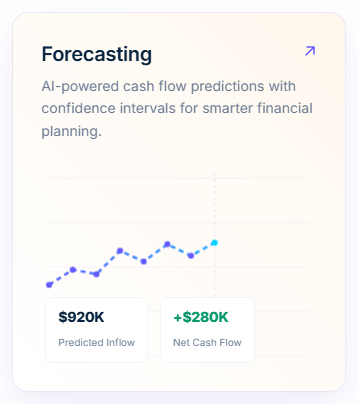
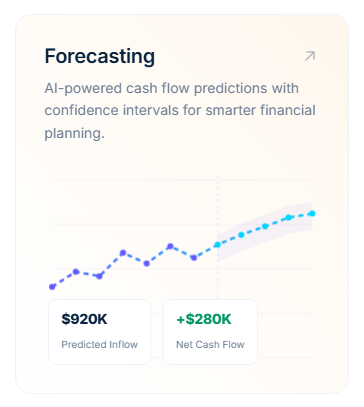
Rebuild the project README and recapture live motion

diff --git a/README.md b/README.md
@@ -1,96 +1,186 @@
 # Frontend UX Motion Skills
 
-A collection of 28 agent skills for frontend design, UX, and web animation. Each skill includes implementation guidance and a standalone HTML and JavaScript example that runs without dependencies.
+**28 agent skills for frontend design, UX, and web animation.** Build responsive product websites with accessible CSS, SVG, Canvas, and JavaScript motion. Start with a live production example, then open the standalone HTML and JavaScript to see how the interaction works.
+
+[Quick start](#quick-start) · [Choose a skill](#choose-a-skill) · [Live website examples](#live-website-examples) · [Skill directory](#skill-directory) · [License](#license)
+
+## Quick start
+
+**Open a browser example locally**
+
+```bash
+git clone https://github.com/AbdullahNaveed/frontend-ux-motion-skills.git
+cd frontend-ux-motion-skills
+```
+
+Open `skills/animate-card-tilt/examples/example.html` in your browser. The demo needs no package install or build step. Read the [example JavaScript](skills/animate-card-tilt/examples/example.js) alongside the [skill instructions](skills/animate-card-tilt/SKILL.md).
+
+**Use a skill with a coding agent**
+
+Point your agent to the relevant `SKILL.md` in the checkout, or use the [Skills CLI](https://github.com/vercel-labs/skills) to install it into a supported agent such as Codex, Claude Code, or Cursor.
+
+```bash
+npx skills add AbdullahNaveed/frontend-ux-motion-skills --skill animate-card-tilt
+```
+
+Example prompt to adapt to your project.
+
+> Use the card tilt skill on our product grid. Keep existing card links, use a stationary pointer target, and verify keyboard navigation, touch, and reduced motion.
+
+## Choose a skill
+
+| Goal | Start here |
+| --- | --- |
+| Plan a product landing page from the first viewport to the final CTA | [Product website design](skills/design-product-websites/SKILL.md) |
+| Build a dark product-card grid with pointer depth and a phone preview | [Card tilt](skills/animate-card-tilt/SKILL.md), [spotlights](skills/animate-pointer-spotlights/SKILL.md), [preview lift](skills/animate-product-previews/SKILL.md) |
+| Pin a product preview while users scroll through its features | [Sticky scroll stories](skills/animate-scroll-stories/SKILL.md) |
+| Build a moving integrations carousel or logo marquee | [Seamless marquees](skills/animate-seamless-marquees/SKILL.md) |
+| Build an interactive stats canvas with selectable arrangements | [Visualization modes](skills/animate-visualization-modes/SKILL.md), [reactive particles](skills/animate-canvas-particles/SKILL.md) |
+| Check a motion-heavy landing page before release | [Frontend UX audit](skills/audit-frontend-experiences/SKILL.md), [motion lifecycle](skills/animate-frontend-interfaces/SKILL.md) |
 
 ## Live website examples
 
-These captures show the interactions on the live sites. The [live interaction guide](examples/live-captures/README.md) maps each effect to its example scripts.
+The following GIFs and PNGs were captured from [Klynd](https://klynd.trade/) and [CashCycle](https://cashcycle.ai/). The [live interaction guide](examples/live-captures/README.md) links each pattern to its reusable implementation.
 
-| [Klynd](https://klynd.trade/) | [CashCycle](https://cashcycle.ai/) |
-| --- | --- |
-| [![Screenshot of the Klynd product cards](examples/live-captures/klynd-product-cards.png)](examples/live-captures/klynd-product-cards.png) | [![Screenshot of the CashCycle feature grid](examples/live-captures/cashcycle-feature-cards.png)](examples/live-captures/cashcycle-feature-cards.png) |
+### Klynd landing pages and carousels
 
-<details>
-<summary>Klynd card animations</summary>
-
-| Journal | Prop | Academy |
-| --- | --- | --- |
-| ![Journal card tilt](examples/live-captures/klynd-journal-card.gif) | ![Prop card tilt](examples/live-captures/klynd-prop-card.gif) | ![Academy card tilt](examples/live-captures/klynd-academy-card.gif) |
-
-</details>
-
-<details>
-<summary>CashCycle card animations</summary>
-
-| Invoicing | Collections | Cash Application |
-| --- | --- | --- |
-| ![Invoicing particles](examples/live-captures/cashcycle-invoicing-card.gif) | ![Collections sequence](examples/live-captures/cashcycle-collections-card.gif) | ![Cash Application match results](examples/live-captures/cashcycle-cash-application-card.gif) |
-
-| Customer Portal | Forecasting | Analytics |
-| --- | --- | --- |
-| ![Customer Portal particle field](examples/live-captures/cashcycle-customer-portal-card.gif) | ![Forecasting chart](examples/live-captures/cashcycle-forecasting-card.gif) | ![Analytics bars](examples/live-captures/cashcycle-analytics-card.gif) |
-
-</details>
-
-### Klynd app pages
+[![Klynd homepage with its navigation and product suite hero](examples/live-captures/klynd-home.png)](examples/live-captures/klynd-home.png)
 
 | [Journal](https://klynd.trade/journal) | [Prop](https://klynd.trade/prop) | [Academy](https://klynd.trade/academy) |
 | --- | --- | --- |
-| ![Journal pinned walkthrough](examples/live-captures/klynd-journal-story.gif) | ![Prop dashboard landing page](examples/live-captures/klynd-prop-landing.gif) | ![Academy pinned walkthrough](examples/live-captures/klynd-academy-story.gif) |
-| [Moving integrations carousel](examples/live-captures/klynd-journal-marquee.gif) | [Landing page screenshot](examples/live-captures/klynd-prop-landing.png) | [Screenshot gallery hover animation](examples/live-captures/klynd-academy-gallery.gif) |
+| [![Journal landing page with navigation, hero, and market ticker](examples/live-captures/klynd-journal-landing.png)](examples/live-captures/klynd-journal-landing.png) | [![Prop landing page with navigation, hero, and prop-firm ticker](examples/live-captures/klynd-prop-landing.png)](examples/live-captures/klynd-prop-landing.png) | [![Academy landing page with navigation and hero](examples/live-captures/klynd-academy-landing.png)](examples/live-captures/klynd-academy-landing.png) |
+| [Market ticker in motion](examples/live-captures/klynd-journal-landing.gif) | [Prop-firm ticker in motion](examples/live-captures/klynd-prop-landing.gif) | [Pinned lesson walkthrough](examples/live-captures/klynd-academy-story.gif) |
 
-### More from CashCycle
+<details>
+<summary>Watch the integrations carousel and pinned walkthroughs</summary>
+
+**Journal integrations carousel**
+
+![Journal's two integration rails moving in opposite directions](examples/live-captures/klynd-journal-integrations.gif)
+
+[Integrations screenshot](examples/live-captures/klynd-journal-integrations.png)
+
+| Journal walkthrough | Academy walkthrough |
+| --- | --- |
+| ![Journal phone stays pinned as the product screens change](examples/live-captures/klynd-journal-story.gif) | ![Academy phone stays pinned as the lesson steps advance](examples/live-captures/klynd-academy-story.gif) |
+| [Screenshot](examples/live-captures/klynd-journal-story.png) | [Screenshot](examples/live-captures/klynd-academy-story.png) |
+
+</details>
+
+<details>
+<summary>Watch the three Klynd product cards</summary>
+
+[Full product grid](examples/live-captures/klynd-product-cards.png)
+
+| Journal | Prop | Academy |
+| --- | --- | --- |
+| ![Journal card hover](examples/live-captures/klynd-journal-card.gif) | ![Prop card hover](examples/live-captures/klynd-prop-card.gif) | ![Academy card hover](examples/live-captures/klynd-academy-card.gif) |
+
+</details>
+
+### CashCycle landing page and feature cards
+
+[![CashCycle homepage with navigation, hero dashboard, and integration logos](examples/live-captures/cashcycle-home.png)](examples/live-captures/cashcycle-home.png)
+
+[Animated homepage hero and logo rail](examples/live-captures/cashcycle-home.gif) · [Full feature grid](examples/live-captures/cashcycle-feature-cards.png)
+
+<details>
+<summary>Watch all six CashCycle cards individually</summary>
+
+| Invoicing | Collections | Cash Application |
+| --- | --- | --- |
+| ![Pointer-reactive invoicing particles](examples/live-captures/cashcycle-invoicing-card.gif) | ![Collections follow-up sequence](examples/live-captures/cashcycle-collections-card.gif) | ![Cash application matching rows](examples/live-captures/cashcycle-cash-application-card.gif) |
+
+| Customer Portal | Forecasting | Analytics |
+| --- | --- | --- |
+| ![Pointer-reactive customer portal field](examples/live-captures/cashcycle-customer-portal-card.gif) | ![Interactive forecasting chart](examples/live-captures/cashcycle-forecasting-card.gif) | ![Interactive analytics bars](examples/live-captures/cashcycle-analytics-card.gif) |
+
+</details>
 
 #### Built for finance teams that move fast
 
-The four controls switch the canvas between **40+ currencies supported**, **3-layer AI matching**, **7+ languages supported**, and **Security**. The pointer also changes the artwork within each mode.
+Four controls switch the Canvas visualization between **40+ currencies**, **3-layer AI matching**, **7+ languages**, and **Security**. The pointer interacts with the artwork within each mode.
 
-![CashCycle’s four stat controls switch the animated canvas](examples/live-captures/cashcycle-stats.gif)
+![CashCycle stats controls switch the animated Canvas](examples/live-captures/cashcycle-stats.gif)
 
-[Full-resolution screenshot](examples/live-captures/cashcycle-stats.png) · [Reusable visualization mode example](skills/animate-visualization-modes/examples/example.js)
+[Stats screenshot](examples/live-captures/cashcycle-stats.png) · [Visualization mode script](skills/animate-visualization-modes/examples/example.js)
 
 | Stacked workflow cards | Integration diagram |
 | --- | --- |
-| ![Hovering changes which workflow card is emphasized](examples/live-captures/cashcycle-workflow.gif) | ![Signals travel along the integration diagram’s connectors](examples/live-captures/cashcycle-integrations.gif) |
+| ![Hover promotes a workflow card](examples/live-captures/cashcycle-workflow.gif) | ![Signals travel along the diagram's connectors](examples/live-captures/cashcycle-integrations.gif) |
 | [Screenshot](examples/live-captures/cashcycle-workflow.png) | [Screenshot](examples/live-captures/cashcycle-integrations.png) |
 
-## Use a skill
+## Skill directory
 
-Clone the repository and open a skill's `examples/example.html` in your browser. Its `examples/example.js` contains the interaction code. Point your coding agent to the skill's `SKILL.md` or copy the complete skill folder into your agent's skills directory.
+Each folder contains a `SKILL.md`, agent metadata, and a browser-ready HTML and JavaScript example. The [motion recipes](skills/animate-frontend-interfaces/references/motion-recipes.md) and [browser audit guide](skills/audit-frontend-experiences/references/browser-audit.md) provide additional implementation and verification details.
 
-For example, ask your agent to use `animate-card-tilt` to add a small pointer tilt while preserving existing links and touch behavior.
+### Product website design and UX
 
-| Skill | Run locally |
-| --- | --- |
-| [Pointer tilt](skills/animate-card-tilt/SKILL.md) | [Example](skills/animate-card-tilt/examples/example.html) |
-| [Pointer spotlight](skills/animate-pointer-spotlights/SKILL.md) | [Example](skills/animate-pointer-spotlights/examples/example.html) |
-| [Product preview lift](skills/animate-product-previews/SKILL.md) | [Example](skills/animate-product-previews/examples/example.html) |
-| [Reactive canvas particles](skills/animate-canvas-particles/SKILL.md) | [Example](skills/animate-canvas-particles/examples/example.html) |
-| [Reactive paths and nodes](skills/animate-reactive-paths/SKILL.md) | [Example](skills/animate-reactive-paths/examples/example.html) |
-| [Sticky scroll stories](skills/animate-scroll-stories/SKILL.md) | [Example](skills/animate-scroll-stories/examples/example.html) |
-| [Viewport reveals](skills/animate-viewport-reveals/SKILL.md) | [Example](skills/animate-viewport-reveals/examples/example.html) |
-| [Count-up metrics](skills/animate-count-up-metrics/SKILL.md) | [Example](skills/animate-count-up-metrics/examples/example.html) |
-| [Seamless marquees](skills/animate-seamless-marquees/SKILL.md) | [Example](skills/animate-seamless-marquees/examples/example.html) |
-| [SVG line drawing](skills/animate-svg-path-drawing/SKILL.md) | [Example](skills/animate-svg-path-drawing/examples/example.html) |
-| [Dashboard choreography](skills/animate-dashboard-sequences/SKILL.md) | [Example](skills/animate-dashboard-sequences/examples/example.html) |
-| [Ambient backgrounds](skills/animate-ambient-backgrounds/SKILL.md) | [Example](skills/animate-ambient-backgrounds/examples/example.html) |
-| [Hero media timelines](skills/animate-hero-media/SKILL.md) | [Example](skills/animate-hero-media/examples/example.html) |
-| [Disclosure and menu motion](skills/animate-disclosures-and-menus/SKILL.md) | [Example](skills/animate-disclosures-and-menus/examples/example.html) |
-| [Visualization mode changes](skills/animate-visualization-modes/SKILL.md) | [Example](skills/animate-visualization-modes/examples/example.html) |
-| [Feedback microinteractions](skills/animate-feedback-states/SKILL.md) | [Example](skills/animate-feedback-states/examples/example.html) |
-| [Reactive bar illustrations](skills/animate-reactive-bars/SKILL.md) | [Example](skills/animate-reactive-bars/examples/example.html) |
-| [Icon flips](skills/animate-icon-flips/SKILL.md) | [Example](skills/animate-icon-flips/examples/example.html) |
-| [Swipe galleries](skills/animate-swipe-galleries/SKILL.md) | [Example](skills/animate-swipe-galleries/examples/example.html) |
-| [Product website structure](skills/design-product-websites/SKILL.md) | [Example](skills/design-product-websites/examples/example.html) |
-| [Light and dark theme tokens](skills/build-theme-systems/SKILL.md) | [Example](skills/build-theme-systems/examples/example.html) |
-| [Basic frontend audit script](skills/audit-frontend-experiences/SKILL.md) | [Example](skills/audit-frontend-experiences/examples/example.html) |
-| [Motion preference and lifecycle](skills/animate-frontend-interfaces/SKILL.md) | [Example](skills/animate-frontend-interfaces/examples/example.html) |
-| [Workflow app landing pages](skills/design-workflow-app-landing/SKILL.md) | [Example](skills/design-workflow-app-landing/examples/example.html) |
-| [Learning app landing pages](skills/design-learning-app-landing/SKILL.md) | [Example](skills/design-learning-app-landing/examples/example.html) |
-| [Monitoring app landing pages](skills/design-monitoring-app-landing/SKILL.md) | [Example](skills/design-monitoring-app-landing/examples/example.html) |
-| [Stacked workflow cards](skills/animate-stacked-workflow-cards/SKILL.md) | [Example](skills/animate-stacked-workflow-cards/examples/example.html) |
-| [Animated integration connectors](skills/animate-integration-connectors/SKILL.md) | [Example](skills/animate-integration-connectors/examples/example.html) |
+| Skill | When to use it | Example |
+| --- | --- | --- |
+| [Product website structure](skills/design-product-websites/SKILL.md) | Plan product messaging, proof, routes, and calls to action. | [HTML](skills/design-product-websites/examples/example.html) · [JS](skills/design-product-websites/examples/example.js) |
+| [Workflow app landing pages](skills/design-workflow-app-landing/SKILL.md) | Demonstrate a repeatable job with sequential product screens. | [HTML](skills/design-workflow-app-landing/examples/example.html) · [JS](skills/design-workflow-app-landing/examples/example.js) |
+| [Learning app landing pages](skills/design-learning-app-landing/SKILL.md) | Show curriculum progression and an accessible sample exercise. | [HTML](skills/design-learning-app-landing/examples/example.html) · [JS](skills/design-learning-app-landing/examples/example.js) |
+| [Monitoring app landing pages](skills/design-monitoring-app-landing/SKILL.md) | Explain dashboard states, thresholds, and the next action. | [HTML](skills/design-monitoring-app-landing/examples/example.html) · [JS](skills/design-monitoring-app-landing/examples/example.js) |
+| [Light and dark theme tokens](skills/build-theme-systems/SKILL.md) | Build responsive light and dark themes with semantic color tokens. | [HTML](skills/build-theme-systems/examples/example.html) · [JS](skills/build-theme-systems/examples/example.js) |
+| [Basic frontend audit script](skills/audit-frontend-experiences/SKILL.md) | Review keyboard access, touch, contrast, overflow, and motion. | [HTML](skills/audit-frontend-experiences/examples/example.html) · [JS](skills/audit-frontend-experiences/examples/example.js) |
+
+### Cards, navigation, and interaction
+
+| Skill | When to use it | Example |
+| --- | --- | --- |
+| [Pointer tilt](skills/animate-card-tilt/SKILL.md) | Tilt a visual layer from a stationary pointer target. | [HTML](skills/animate-card-tilt/examples/example.html) · [JS](skills/animate-card-tilt/examples/example.js) |
+| [Pointer spotlight](skills/animate-pointer-spotlights/SKILL.md) | Track the pointer with a gradient confined to a card. | [HTML](skills/animate-pointer-spotlights/examples/example.html) · [JS](skills/animate-pointer-spotlights/examples/example.js) |
+| [Product preview lift](skills/animate-product-previews/SKILL.md) | Lift a clipped phone or dashboard preview on hover and focus. | [HTML](skills/animate-product-previews/examples/example.html) · [JS](skills/animate-product-previews/examples/example.js) |
+| [Stacked workflow cards](skills/animate-stacked-workflow-cards/SKILL.md) | Promote a step in an overlapping stack using stable controls. | [HTML](skills/animate-stacked-workflow-cards/examples/example.html) · [JS](skills/animate-stacked-workflow-cards/examples/example.js) |
+| [Disclosure and menu motion](skills/animate-disclosures-and-menus/SKILL.md) | Animate expandable content with predictable focus and Escape behavior. | [HTML](skills/animate-disclosures-and-menus/examples/example.html) · [JS](skills/animate-disclosures-and-menus/examples/example.js) |
+| [Feedback microinteractions](skills/animate-feedback-states/SKILL.md) | Show clear, finite motion when an action changes state. | [HTML](skills/animate-feedback-states/examples/example.html) · [JS](skills/animate-feedback-states/examples/example.js) |
+| [Icon flips](skills/animate-icon-flips/SKILL.md) | Use a two-face badge to illustrate a state change. | [HTML](skills/animate-icon-flips/examples/example.html) · [JS](skills/animate-icon-flips/examples/example.js) |
+
+### Scroll animation and carousels
+
+| Skill | When to use it | Example |
+| --- | --- | --- |
+| [Sticky scroll stories](skills/animate-scroll-stories/SKILL.md) | Pin a product screen beside a scroll-driven narrative. | [HTML](skills/animate-scroll-stories/examples/example.html) · [JS](skills/animate-scroll-stories/examples/example.js) |
+| [Viewport reveals](skills/animate-viewport-reveals/SKILL.md) | Reveal supporting visuals when a section enters view. | [HTML](skills/animate-viewport-reveals/examples/example.html) · [JS](skills/animate-viewport-reveals/examples/example.js) |
+| [Seamless marquees](skills/animate-seamless-marquees/SKILL.md) | Loop logo belts, market tickers, and integration rails with a pause control. | [HTML](skills/animate-seamless-marquees/examples/example.html) · [JS](skills/animate-seamless-marquees/examples/example.js) |
+| [Swipe galleries](skills/animate-swipe-galleries/SKILL.md) | Use native scroll snapping with explicit previous and next actions. | [HTML](skills/animate-swipe-galleries/examples/example.html) · [JS](skills/animate-swipe-galleries/examples/example.js) |
+
+### Canvas, SVG, and data visualization
+
+| Skill | When to use it | Example |
+| --- | --- | --- |
+| [Reactive canvas particles](skills/animate-canvas-particles/SKILL.md) | Draw pointer-responsive particles and restore their resting positions. | [HTML](skills/animate-canvas-particles/examples/example.html) · [JS](skills/animate-canvas-particles/examples/example.js) |
+| [Reactive paths and nodes](skills/animate-reactive-paths/SKILL.md) | Bend a decorative path around the pointer. | [HTML](skills/animate-reactive-paths/examples/example.html) · [JS](skills/animate-reactive-paths/examples/example.js) |
+| [Reactive bar illustrations](skills/animate-reactive-bars/SKILL.md) | Scale decorative bars around a stable baseline. | [HTML](skills/animate-reactive-bars/examples/example.html) · [JS](skills/animate-reactive-bars/examples/example.js) |
+| [Visualization mode changes](skills/animate-visualization-modes/SKILL.md) | Change layouts from labeled, keyboard-accessible controls. | [HTML](skills/animate-visualization-modes/examples/example.html) · [JS](skills/animate-visualization-modes/examples/example.js) |
+| [Count-up metrics](skills/animate-count-up-metrics/SKILL.md) | Animate a displayed count while exposing its final value to assistive tech. | [HTML](skills/animate-count-up-metrics/examples/example.html) · [JS](skills/animate-count-up-metrics/examples/example.js) |
+| [SVG line drawing](skills/animate-svg-path-drawing/SKILL.md) | Reveal a stroke along a normalized SVG path. | [HTML](skills/animate-svg-path-drawing/examples/example.html) · [JS](skills/animate-svg-path-drawing/examples/example.js) |
+| [Animated integration connectors](skills/animate-integration-connectors/SKILL.md) | Move signals along a diagram with visible resting connectors. | [HTML](skills/animate-integration-connectors/examples/example.html) · [JS](skills/animate-integration-connectors/examples/example.js) |
+
+### Hero motion and sequencing
+
+| Skill | When to use it | Example |
+| --- | --- | --- |
+| [Dashboard choreography](skills/animate-dashboard-sequences/SKILL.md) | Sequence dashboard rows, chips, and progress indicators. | [HTML](skills/animate-dashboard-sequences/examples/example.html) · [JS](skills/animate-dashboard-sequences/examples/example.js) |
+| [Ambient backgrounds](skills/animate-ambient-backgrounds/SKILL.md) | Animate hero lighting while keeping text legible. | [HTML](skills/animate-ambient-backgrounds/examples/example.html) · [JS](skills/animate-ambient-backgrounds/examples/example.js) |
+| [Hero media timelines](skills/animate-hero-media/SKILL.md) | Build product preview timelines with a static poster state. | [HTML](skills/animate-hero-media/examples/example.html) · [JS](skills/animate-hero-media/examples/example.js) |
+| [Motion preference and lifecycle](skills/animate-frontend-interfaces/SKILL.md) | Manage animations across reduced motion, visibility, and unmount. | [HTML](skills/animate-frontend-interfaces/examples/example.html) · [JS](skills/animate-frontend-interfaces/examples/example.js) |
+
+## Contributing
+
+For a new pattern, open an issue with what it should teach and where the existing catalog falls short. A pull request should include an agent instruction, a runnable example, and verification steps. For motion examples, test the resting state, keyboard and pointer controls where applicable, touch, and reduced motion. Use original demo content.
+
+## Frequently asked questions
+
+**Do the examples require React or an animation library?**
+
+The examples use HTML, CSS, and browser APIs. You can adapt the interaction to the framework or motion library already in your project.
+
+**Which parts of a production example can I reuse?**
+
+Use the skill instructions and standalone scripts to recreate the interaction. The screenshots and GIFs illustrate how the patterns look on the live sites. See the license for the terms that apply to the reusable files.
 
 ## License
 
-The skills and example code are source-available under the [Frontend UX Motion Skills License](LICENSE). Use them for free in personal and commercial projects, including paid client work. Keep the attribution and license notice when redistributing the materials, identify changes, and credit the original project. Selling the materials as a skill pack or another paid resource is prohibited, including modified versions. The live website captures are shown for illustration and are excluded from the license.
+The [Frontend UX Motion Skills License](LICENSE) allows free personal and commercial project use, including paid client work. Keep the attribution and license notice when redistributing the materials, identify your changes, and credit the original project. Selling the materials as a skill pack or another paid resource is prohibited, including modified versions. The live website captures are shown for illustration and are excluded from this license.

diff --git a/examples/live-captures/README.md b/examples/live-captures/README.md
@@ -7,7 +7,8 @@ Use this guide to connect an observed interaction with a reusable example. The s
 | Klynd product cards tilt, move an accent highlight, and lift the phone previews | [Card tilt](../../skills/animate-card-tilt/examples/example.js), [pointer spotlights](../../skills/animate-pointer-spotlights/examples/example.js), [product preview lift](../../skills/animate-product-previews/examples/example.html) |
 | Klynd Journal, Prop, and Academy organize their landing pages around distinct product goals | [Workflow app](../../skills/design-workflow-app-landing/SKILL.md), [monitoring app](../../skills/design-monitoring-app-landing/SKILL.md), [learning app](../../skills/design-learning-app-landing/SKILL.md) |
 | Klynd Journal and Academy pin a phone while the walkthrough changes screens | [Pinned scroll stories](../../skills/animate-scroll-stories/examples/example.js) |
-| Klynd uses a scrolling logo belt and a swipeable screenshot gallery | [Seamless marquees](../../skills/animate-seamless-marquees/examples/example.js), [swipe galleries](../../skills/animate-swipe-galleries/examples/example.js) |
+| Klynd Journal runs two integration rails in opposite directions, and Journal and Prop include moving tickers beneath their heroes | [Seamless marquees](../../skills/animate-seamless-marquees/examples/example.js) |
+| CashCycle places a transparent dashboard animation beside the hero copy and a moving logo rail below | [Hero media timelines](../../skills/animate-hero-media/examples/example.js), [seamless marquees](../../skills/animate-seamless-marquees/examples/example.js) |
 | CashCycle Invoicing and Customer Portal move particles and nodes inside the artwork | [Reactive particles](../../skills/animate-canvas-particles/examples/example.js), [reactive paths](../../skills/animate-reactive-paths/examples/example.js) |
 | CashCycle Collections and Cash Application layer status and changes inside mock UI | [Dashboard sequences](../../skills/animate-dashboard-sequences/examples/example.js), [feedback states](../../skills/animate-feedback-states/examples/example.js) |
 | CashCycle Forecasting and Analytics react within chart previews | [Reactive paths](../../skills/animate-reactive-paths/examples/example.js), [reactive bars](../../skills/animate-reactive-bars/examples/example.js) |
